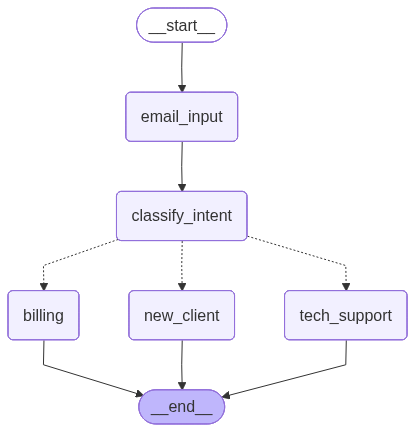
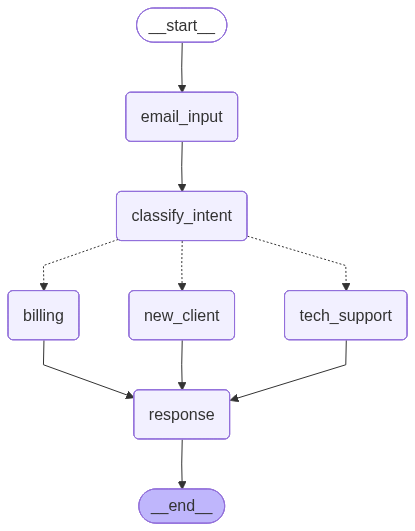
Add response function and update agent edges in langgraphClass.py; update my_graph.png

diff --git a/langgraph/langgraphClass.py b/langgraph/langgraphClass.py
@@ -24,6 +24,10 @@ def billing(state: dict):
     return state
 
 
+def response(state: dict):
+    return state
+
+
 from langgraph.graph import StateGraph, START, END
 
 from typing import Literal
@@ -50,8 +54,8 @@ agent_builder.add_node("email_input", email_input)
 agent_builder.add_node("classify_intent", classify_intent)
 agent_builder.add_node("new_client", new_client)
 agent_builder.add_node("tech_support", tech_support)
-
 agent_builder.add_node("billing", billing)
+agent_builder.add_node("response", response)
 
 
 agent_builder.add_edge(START, "email_input")
@@ -66,9 +70,11 @@ agent_builder.add_conditional_edges(
         "billing": "billing"
     }
 )
-agent_builder.add_edge("new_client", END)
-agent_builder.add_edge("tech_support", END)
-agent_builder.add_edge("billing", END)
+agent_builder.add_edge("new_client", "response")
+agent_builder.add_edge("tech_support", "response")
+agent_builder.add_edge("billing", "response")
+
+agent_builder.add_edge("response", END)
 
 agent = agent_builder.compile()
 

diff --git a/pinecone/upsert_records.py b/pinecone/upsert_records.py
@@ -1,0 +1,27 @@
+from pinecone import Pinecone
+
+pc = Pinecone(api_key="pcsk_7EffP4_EQytj5kJFqaW4z6duJYQ75DdDkqdKfhmvY3WnYZ8ZF95fhTgeuVV2tuw9gcQtBQ")
+index = pc.Index("wedevx")
+
+
+index.upsert_records(
+    "__default__",
+    [
+        {
+            "_id": "rec1",
+            "text": "SDET monthly price is $799/mo if annual, $3995/year",
+            "category": "digestive system", 
+        },
+        {
+            "_id": "rec2",
+            "text": "DevOps monthly price is $500/mo if annual, $1200/year",
+            "category": "cultivation",
+        },
+        {
+            "_id": "rec3",
+            "text": "AI Engineer monthly price is $2000/mo if annual, $10000/year",
+            "category": "immune system",
+        }
+    ]
+)
+

diff --git a/pinecone/search_records.py b/pinecone/search_records.py
@@ -1,0 +1,16 @@
+from pinecone import Pinecone
+
+pc = Pinecone(api_key="pcsk_7EffP4_EQytj5kJFqaW4z6duJYQ75DdDkqdKfhmvY3WnYZ8ZF95fhTgeuVV2tuw9gcQtBQ")
+index = pc.Index("wedevx")
+
+results = index.search(
+    namespace="__default__", 
+    query={
+        "inputs": {"text": "SDET"}, 
+        "top_k": 2
+    },
+    fields=["category", "chunk_text"]
+)
+
+print(results)
+
